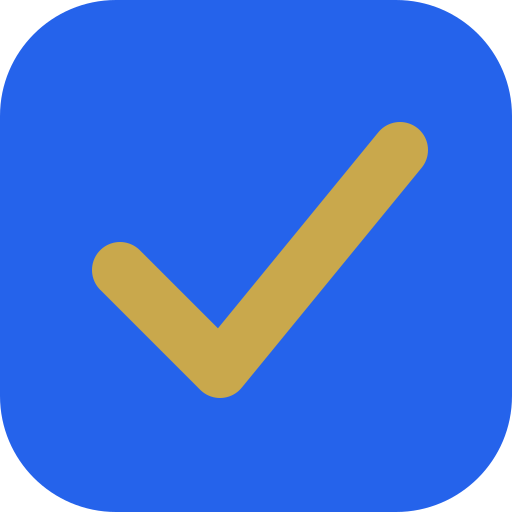
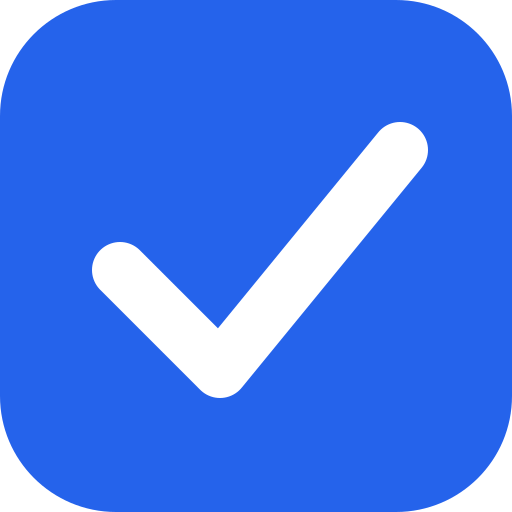
v2.19.2: Steward glyph recolored gold → white (#31)
Home-screen / PWA icon and in-app StewardLogo both show a white check on
the brand blue background (was gold). Aligns with the suite rule:

  default = brand color + white glyph
  iOS Tinted / sleep mode = gold-on-black via iOS auto-tint

Updated: public/icon-{192,512}, apple-touch-icon, favicon, public/icon.svg,
src/components/icons/StewardLogo.tsx.

Changed region(s): [[0.1562, 0.2188, 0.8438, 0.7812]]

diff --git a/src/components/icons/StewardLogo.tsx b/src/components/icons/StewardLogo.tsx
@@ -5,19 +5,21 @@ interface Props {
 }
 
 /**
- * Steward brand mark. Matches the v2.19.1 home-screen / PWA icon:
+ * Steward brand mark. Matches the v2.19.2 home-screen / PWA icon:
  *   - rounded square in Steward brand blue (#2563EB — the same blue the
  *     Gathered "S" chip uses), or white in `inverse`
- *   - large gold checkmark centered, no letter
+ *   - large white checkmark centered, no letter
  *
- * The white-"S" letterform that used to live here is gone; the suite-wide
- * convention is now "brand color + per-app gold accent shape," with the
- * "Steward" wordmark appearing as adjacent text wherever the logo is used.
+ * The default treatment is brand color + white glyph (was gold). iOS
+ * Tinted / sleep mode auto-renders white-on-color as gold-on-black, which
+ * is the appearance the user wants in tinted mode; keeping the source
+ * glyph white gives both modes the right color story.
  */
 export function StewardLogo({ size = 44, variant = 'mark', className }: Props) {
   const isInverse = variant === 'inverse'
   const containerBg = isInverse ? '#FFFFFF' : '#2563EB'
-  const accent = '#C9A84C'
+  // White over the brand-color container; brand color over the inverse white container.
+  const accent = isInverse ? '#2563EB' : '#FFFFFF'
   const containerStyle: React.CSSProperties = {
     width: size,
     height: size,

diff --git a/src/constants/changelog.ts b/src/constants/changelog.ts
@@ -1,4 +1,4 @@
-export const APP_VERSION = '2.19.1'
+export const APP_VERSION = '2.19.2'
 
 export interface ChangelogEntry {
   version: string
@@ -8,6 +8,14 @@ export interface ChangelogEntry {
 }
 
 export const CHANGELOG: ChangelogEntry[] = [
+  {
+    version: '2.19.2',
+    date: '2026-05-19',
+    enhancements: [
+      'Steward glyph recolored from gold to white. The bright blue background is unchanged; the checkmark on the home-screen icon and the in-app StewardLogo are now white instead of gold. Aligns with the suite-wide rule that default icons are brand color + white glyph; iOS Tinted (sleep) mode then renders white-on-color as the gold-on-black look the user wants there.',
+    ],
+    bugFixes: [],
+  },
   {
     version: '2.19.1',
     date: '2026-05-19',
